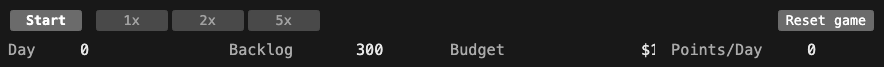
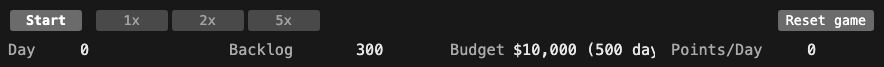
Show Budget amount beside its label instead of clipping into empty space.
Drop the 32ch right-aligned Budget min-width that left a dead gap after
the label at mid widths; left-align so a tight column keeps the $ visible.

Changed region(s): [[0.5803, 0.6269, 0.7636, 0.8358], [0.733, 0.8358, 0.7636, 0.8657]]

diff --git a/index.html b/index.html
@@ -61,10 +61,12 @@
       .stat-value.v-day { min-width: 5ch; } /* Day: up to ~5 digits */
       .stat-value.v-flow { min-width: 9ch; } /* Backlog/Shipped: e.g. "12,345.6" */
       .stat-value.v-count { min-width: 6ch; } /* In Progress/Done */
-      /* Budget may append "(N days)" runway; keep a wider slot so the
-         suffix does not reflow neighboring stats when crossing comma or
-         day-count boundaries. */
-      .stat-value.v-budget { min-width: 32ch; } /* Budget: e.g. "$5,000,020 (250,001 days)" */
+      /* Budget may append "(N days)" runway. No ch min-width: a wide
+         right-aligned slot wasted space after the label and clipped the
+         amount (issue #113). Left-align so a tight column keeps the $
+         visible and clips the runway suffix first. The 4-column grid
+         keeps neighbors stable. */
+      .stat-value.v-budget { min-width: 0; text-align: left; }
       /* Issue #37: low runway telegraph — reuse the existing danger red
          so payroll cliff reads before Events fill with removals. */
       .stat-value.budget-low { color: var(--accent-red); font-weight: bold; }

diff --git a/src/ui/statsLayout.test.ts b/src/ui/statsLayout.test.ts
@@ -25,6 +25,12 @@ describe("top stats layout (issue #113)", () => {
   it("keeps tabular nums so ticking values do not reflow the loops below", () => {
     expect(html).toMatch(/\.stat-value\s*\{[^}]*font-variant-numeric:\s*tabular-nums/);
   });
+
+  // A large ch min-width + text-align:right left an empty gap after the
+  // Budget label while the amount clipped away inside the cell.
+  it("does not pin Budget to a wide ch min-width that wastes the cell", () => {
+    expect(html).not.toMatch(/\.stat-value\.v-budget\s*\{[^}]*min-width:\s*\d+ch/);
+  });
 });
 
 describe("chrome row layout", () => {
